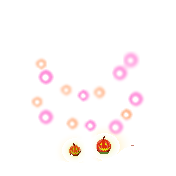
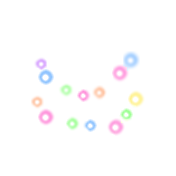
Cleaned up a few things and fixed src package bug where MainMenuController was not releasing UI after failed city search

diff --git a/web/public/index.html b/web/public/index.html
@@ -29,9 +29,9 @@
 
     <main style="justify-content: center;">
 
-        <div class="sidebox">
+        <!-- <div class="sidebox">
             <img style="max-width: 10%;min-width: 10%; margin-top: 5%;" src="webimages/liveexample2.gif"
-                alt="8 Bit Weather screenshot">
+                alt="8 Bit Weather screenshot"> -->
 
 
             <div >
@@ -81,10 +81,10 @@
                     </a>
                 </p>
             </div>
-                        <img style="max-width: 10%;min-width: 10%; margin-top: 5%;" src="webimages/liveexample2.gif"
+                        <!-- <img style="max-width: 10%;min-width: 10%; margin-top: 5%;" src="webimages/liveexample2.gif"
                 alt="8 Bit Weather screenshot">
 
-        </div>
+        </div> -->
     </main>
     <footer>
         <p>© 2026 Code Chicken</p>

diff --git a/web/public/info.html b/web/public/info.html
@@ -39,7 +39,7 @@
             <p>
                 Current seasonal slide:
             <p>
-                "Autumn Pumpkins"</p>
+                "Christmas Lights"</p>
             <p>
             <div class="sidebox">
                 <div>

diff --git a/src/animator/weatheranimator/WeatherDashboardController.java b/src/animator/weatheranimator/WeatherDashboardController.java
@@ -1,20 +1,19 @@
 package animator.weatheranimator;
 
-
 import engine.ApplicationContext;
 import javafx.application.Application;
 import javafx.scene.layout.Pane;
 
-
-
-
-
-
-
-
 /**
- * a controller class that manages the weather dashboard, which includes the primary weather animation for today and the forecast animations for the upcoming days. It initializes the weather animation units based on the provided weather data and handles user interactions such as minimizing and expanding the dashboard.
- * The WeatherDashboardController class is responsible for creating and managing the weather animation units, which are instances of the WeatherCanvasView class. It provides methods to start the dashboard, handle user interactions, and manage the visibility and update state of the animation units.
+ * a controller class that manages the weather dashboard, which includes the
+ * primary weather animation for today and the forecast animations for the
+ * upcoming days. It initializes the weather animation units based on the
+ * provided weather data and handles user interactions such as minimizing and
+ * expanding the dashboard.
+ * The WeatherDashboardController class is responsible for creating and managing
+ * the weather animation units, which are instances of the WeatherCanvasView
+ * class. It provides methods to start the dashboard, handle user interactions,
+ * and manage the visibility and update state of the animation units.
  * 
  * WeatherDashboardController
  */
@@ -28,9 +27,12 @@ public class WeatherDashboardController {
     private int sprWidth;
     private int sprHeight;
 
-
     /**
-     * Constructs a WeatherDashboardController with the specified application, application context, and taskbar offset height. It initializes the weather animation units for today and the forecasted days based on the provided weather data.
+     * Constructs a WeatherDashboardController with the specified application,
+     * application context, and taskbar offset height. It initializes the weather
+     * animation units for today and the forecasted days based on the provided
+     * weather data.
+     * 
      * @param app        the parent JavaFX application
      * @param appContext shared application state containing weather data,
      *                   forecast data, and screen dimensions
@@ -38,8 +40,7 @@ public class WeatherDashboardController {
     public WeatherDashboardController(
             Application app,
             ApplicationContext appContext,
-            int taskbarOffsetH
-        ) {
+            int taskbarOffsetH) {
 
         // Primary WeatherState for today
         WeatherDrawingState todayState = appContext.weatherDrawingState;
@@ -50,21 +51,23 @@ public class WeatherDashboardController {
 
         sprWidth = 128;
         sprHeight = 128;
-        
+
         this.todayAnimationUnit = new WeatherCanvasView(0, taskbarOffsetH, sprWidth, sprHeight, todayState);
         for (int i = 0; i < daysOfWeekStates.length; i++) {
-            forecastAnimations[i] = new WeatherCanvasView(0, taskbarOffsetH + sprHeight * (i + 1), sprWidth, sprHeight, daysOfWeekStates[i]);
+            forecastAnimations[i] = new WeatherCanvasView(0, taskbarOffsetH + sprHeight * (i + 1), sprWidth, sprHeight,
+                    daysOfWeekStates[i]);
         }
         // setWeatherLayout(true, taskbarOffsetH);
-    
-        
+
     }
+
     /**
      * Method should only be called from the WeatherWindowController
+     * 
      * @param invert
      * @param taskbarOffsetH
      */
-    public void invertLayout(int taskbarOffsetH,boolean invert) {
+    public void invertLayout(int taskbarOffsetH, boolean invert) {
         int panelCount = 1 + daysOfWeekStates.length;
         int totalStackHeight = panelCount * sprHeight;
 
@@ -85,7 +88,6 @@ public class WeatherDashboardController {
     }
 
     public void start(Pane root) {
-        
 
         // Text t = new Text();
         todayAnimationUnit.addToRoot(root);
@@ -95,26 +97,45 @@ public class WeatherDashboardController {
         }
     }
 
-    int v;
+    int v = 2; // start at mode 1 open
+
     public void onMinimizePressed() {
-        
-            if (todayAnimationUnit.isVisible()) {
+        v++;
+        switch (v % 4) {
+            case 0:
                 todayAnimationUnit.setVisible(false);
-                todayAnimationUnit.setShouldUpdate(false);
+                todayAnimationUnit.setShouldUpdate(todayAnimationUnit.isVisible());
                 for (WeatherCanvasView animationUnit : forecastAnimations) {
                     animationUnit.setVisible(false);
                     animationUnit.setShouldUpdate(animationUnit.isVisible());
                 }
-                
-            } 
-            else {
-                todayAnimationUnit.setVisible(true); 
-            }
-            todayAnimationUnit.setShouldUpdate(todayAnimationUnit.isVisible());
+                break;
+            case 1:
+                todayAnimationUnit.setVisible(true);
+                todayAnimationUnit.setShouldUpdate(todayAnimationUnit.isVisible());
+
+                break;
+            case 2:
+                for (WeatherCanvasView animationUnit : forecastAnimations) {
+                    animationUnit.setVisible(true);
+                    animationUnit.setShouldUpdate(animationUnit.isVisible());
+                }
+
+                break;
+            case 3:
+                todayAnimationUnit.setVisible(true);
+                todayAnimationUnit.setShouldUpdate(todayAnimationUnit.isVisible());
+                for (WeatherCanvasView animationUnit : forecastAnimations) {
+                    animationUnit.setVisible(false);
+                    animationUnit.setShouldUpdate(animationUnit.isVisible());
+                }
+                break;
+
+            default:
+                break;
+        }
     }
 
-    
-    
     public void onForecastPressed() {
         if (isMinimized()) {
             onMinimizePressed();
@@ -126,19 +147,21 @@ public class WeatherDashboardController {
     }
 
     public boolean isMinimized() {
-    return !todayAnimationUnit.isVisible();
+        return !todayAnimationUnit.isVisible();
     }
+
     public boolean isExpanded() {
         return todayAnimationUnit.isVisible();
     }
+
     public boolean isForecastExpanded() {
         return forecastAnimations[0].isVisible();
     }
-    public void setForecastExpanded(boolean expanded){
+
+    public void setForecastExpanded(boolean expanded) {
         for (WeatherCanvasView animationUnit : forecastAnimations) {
             animationUnit.setVisible(expanded);
             animationUnit.setShouldUpdate(animationUnit.isVisible());
         }
     }
 }
-

diff --git a/src/animator/weatheranimator/WeatherWindowController.java b/src/animator/weatheranimator/WeatherWindowController.java
@@ -212,7 +212,7 @@ public class WeatherWindowController {
             });
             minimizeButton.setOnMouseClicked(event -> {
                 weatherDashboardController.onMinimizePressed();
-                
+
             });
 
             // forecastButton.setOnMouseClicked(event -> {
@@ -272,7 +272,7 @@ public class WeatherWindowController {
 
         // Text t = new Text();
         weatherDashboardController.start(root);
-        weatherDashboardController.setForecastExpanded(false);
+        // weatherDashboardController.setForecastExpanded(false);
 
         installDragBehavior(root);
 

diff --git a/src/mainmenu/MainMenuController.java b/src/mainmenu/MainMenuController.java
@@ -125,8 +125,8 @@ public class MainMenuController {
             else{
                 app.weatherPoller.cancel();
             }
-                confirmButton.setDisable(true);
-                textBox.setDisable(true);
+                confirmButton.setDisable(false);
+                textBox.setDisable(false);
                 toast(stage, "❌ Try format: Los Angeles,CA");
                 return;
             }
